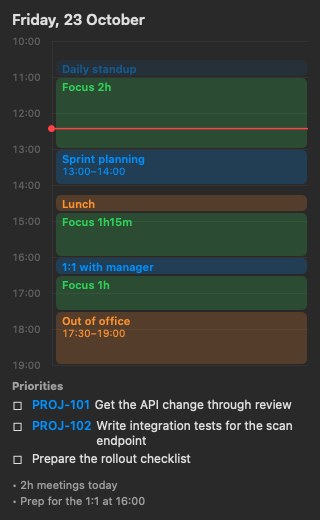
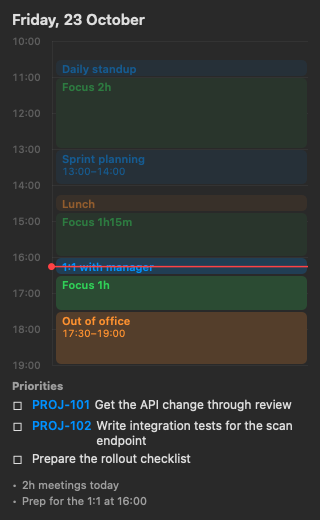
Fix grid lines showing through timeline blocks
Hour lines were drawn under the translucent blocks and showed through,
striking through labels like "Daily Scrum". The grid is now clipped out
under blocks. Wrapped notes also get a hanging indent after the bullet.

diff --git a/DailyPlan.swift b/DailyPlan.swift
@@ -120,16 +120,13 @@ final class TimelineView: NSView {
         let x0 = pad + gutter, x1 = W - pad
         let nowM = nowMinutes()
 
-        if draw {
-            let mono = NSFont.monospacedDigitSystemFont(ofSize: 10, weight: .regular)
-            for h in startH...endH {
-                let hy = yFor(h * 60)
-                _ = text(String(format: "%02d:00", h), x: pad, y: hy - 6, width: gutter,
-                         font: mono, color: .tertiaryLabelColor, draw: true)
-                NSColor.separatorColor.setFill()
-                NSRect(x: x0, y: hy, width: x1 - x0, height: 0.5).fill()
-            }
-            NSRect(x: x0, y: top, width: 0.5, height: yFor(endH * 60) - top).fill()
+        // Blocks are collected first so the grid can be drawn around them:
+        // they're translucent, and lines showing through read as strikethroughs.
+        var blocks: [(rect: NSRect, paint: () -> Void)] = []
+        func addBlock(_ r: NSRect, tint: NSColor, title: String, subtitle: String?, past: Bool, url: String?) {
+            blocks.append((r.insetBy(dx: 1, dy: 1), { [unowned self] in
+                self.block(r, tint: tint, title: title, subtitle: subtitle, past: past, url: url, draw: draw)
+            }))
         }
 
         // --- Focus blocks: free gaps between meetings inside the visible range
@@ -143,9 +140,9 @@ final class TimelineView: NSView {
         if endH * 60 - cursor >= minFocus { gaps.append((cursor, endH * 60)) }
         for (s, e) in gaps {
             let past = isToday && e <= nowM
-            block(NSRect(x: x0 + 3, y: yFor(s), width: x1 - x0 - 3, height: yFor(e) - yFor(s)),
-                  tint: .systemGreen, title: "Focus \(duration(e - s))", subtitle: nil,
-                  past: past, url: nil, draw: draw)
+            addBlock(NSRect(x: x0 + 3, y: yFor(s), width: x1 - x0 - 3, height: yFor(e) - yFor(s)),
+                     tint: .systemGreen, title: "Focus \(duration(e - s))", subtitle: nil,
+                     past: past, url: nil)
         }
 
         // --- Meetings, overlapping ones split into side-by-side lanes
@@ -169,12 +166,31 @@ final class TimelineView: NSView {
             let laneW = (x1 - x0 - 3) / CGFloat(laneEnds.count)
             for (k, e) in cluster.enumerated() {
                 let s = minutes(e.start), en = minutes(e.end)
-                block(NSRect(x: x0 + 3 + CGFloat(lanes[k]) * laneW, y: yFor(s), width: laneW, height: yFor(en) - yFor(s)),
-                      tint: e.isMeeting ? .systemBlue : .systemOrange, title: shortTitle(e.title), subtitle: "\(e.start)–\(e.end)",
-                      past: isToday && en <= nowM, url: e.url, draw: draw)
+                addBlock(NSRect(x: x0 + 3 + CGFloat(lanes[k]) * laneW, y: yFor(s), width: laneW, height: yFor(en) - yFor(s)),
+                         tint: e.isMeeting ? .systemBlue : .systemOrange, title: shortTitle(e.title), subtitle: "\(e.start)–\(e.end)",
+                         past: isToday && en <= nowM, url: e.url)
             }
             i = j
         }
+
+        // --- Grid (hour labels + lines, clipped out under blocks), then the blocks on top
+        if draw {
+            let mono = NSFont.monospacedDigitSystemFont(ofSize: 10, weight: .regular)
+            for h in startH...endH {
+                _ = text(String(format: "%02d:00", h), x: pad, y: yFor(h * 60) - 6, width: gutter,
+                         font: mono, color: .tertiaryLabelColor, draw: true)
+            }
+            NSGraphicsContext.saveGraphicsState()
+            let clip = NSBezierPath(rect: bounds)
+            for b in blocks { clip.append(NSBezierPath(roundedRect: b.rect, xRadius: 5, yRadius: 5)) }
+            clip.windingRule = .evenOdd
+            clip.addClip()
+            NSColor.separatorColor.setFill()
+            for h in startH...endH { NSRect(x: x0, y: yFor(h * 60), width: x1 - x0, height: 0.5).fill() }
+            NSRect(x: x0, y: top, width: 0.5, height: yFor(endH * 60) - top).fill()
+            NSGraphicsContext.restoreGraphicsState()
+        }
+        for b in blocks { b.paint() }
 
         // --- Now line
         if draw && isToday && nowM >= startH * 60 && nowM <= endH * 60 {
@@ -216,7 +232,9 @@ final class TimelineView: NSView {
         if !notes.isEmpty {
             y += 6
             for n in notes {
-                y += text("• \(n)", x: pad, y: y, width: W - 2 * pad, font: .systemFont(ofSize: 11),
+                _ = text("•", x: pad, y: y, width: 10, font: .systemFont(ofSize: 11),
+                         color: .secondaryLabelColor, draw: draw)
+                y += text(n, x: pad + 10, y: y, width: W - 2 * pad - 10, font: .systemFont(ofSize: 11),
                           color: .secondaryLabelColor, draw: draw) + 2
             }
         }
